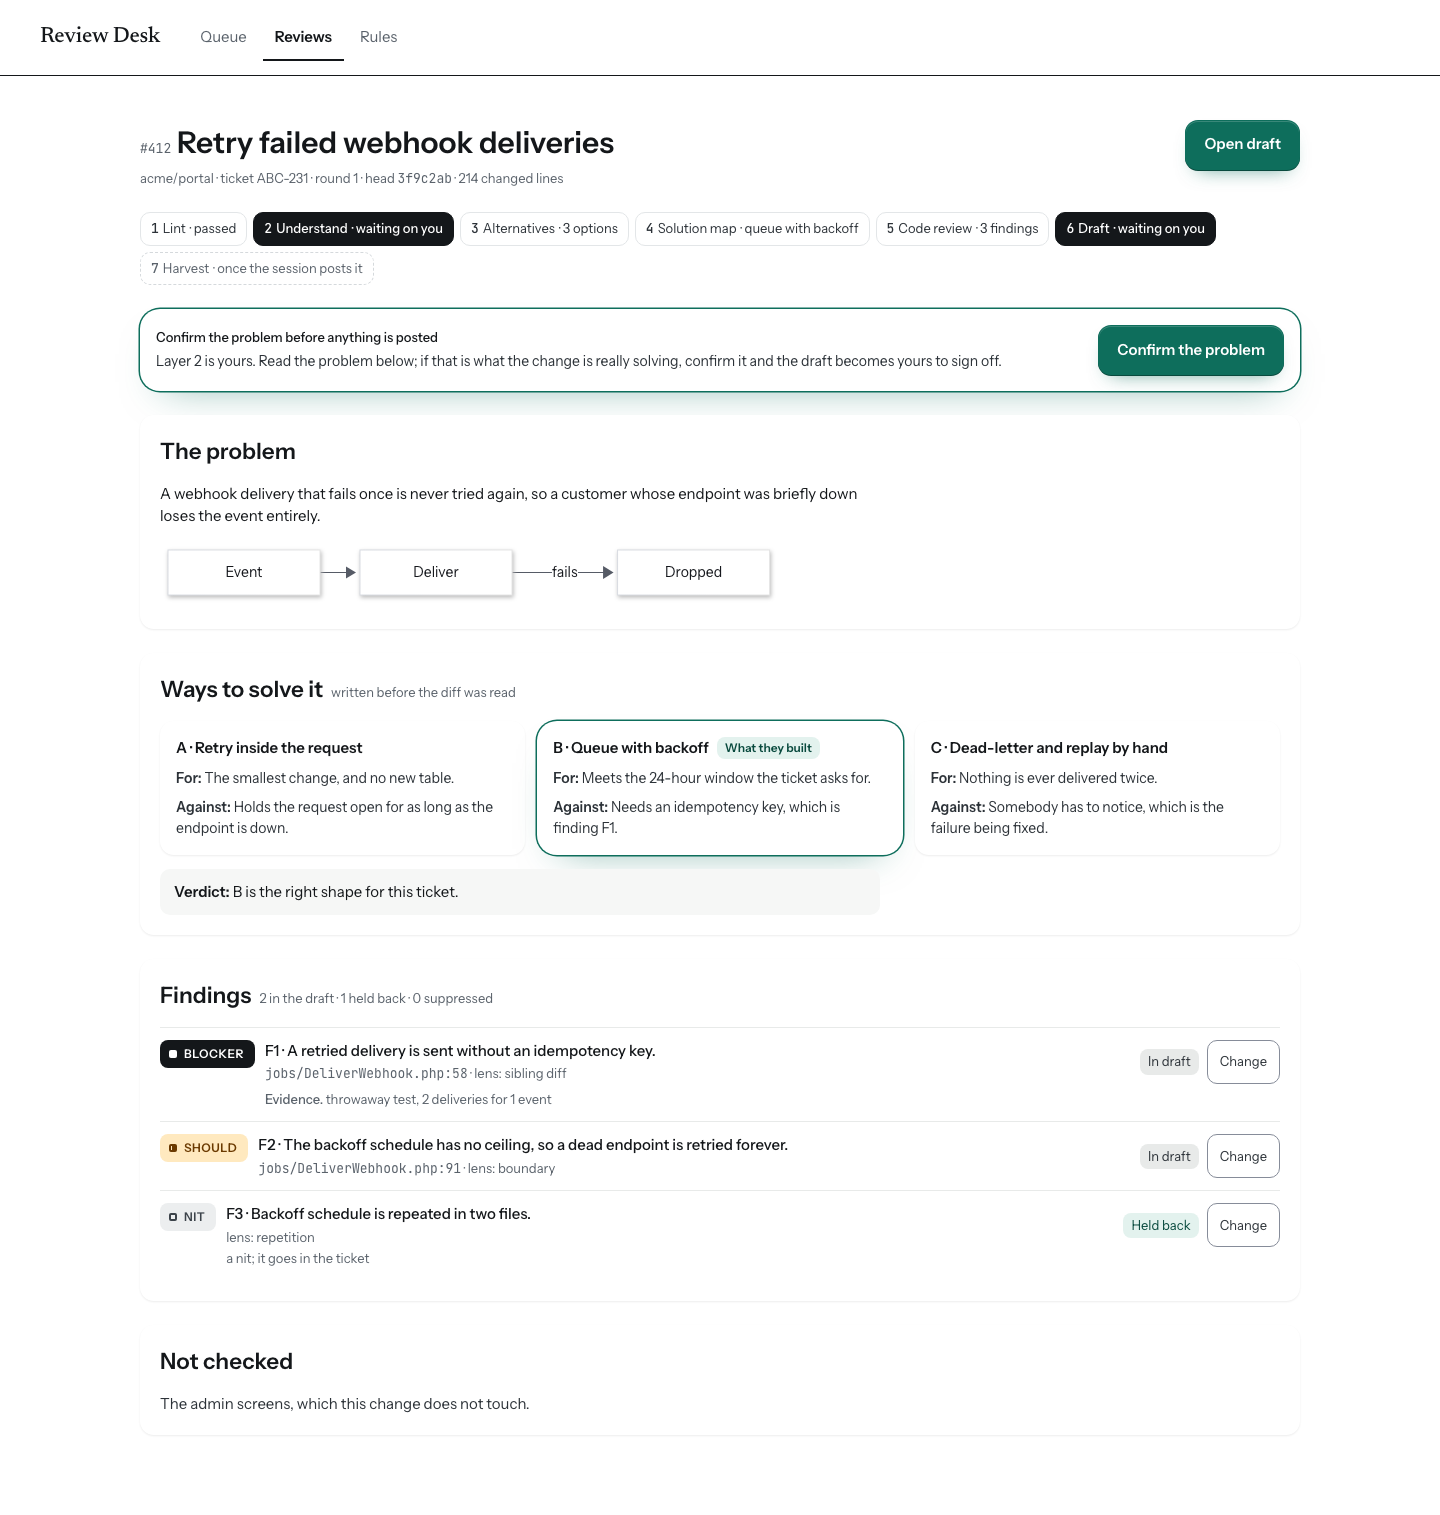
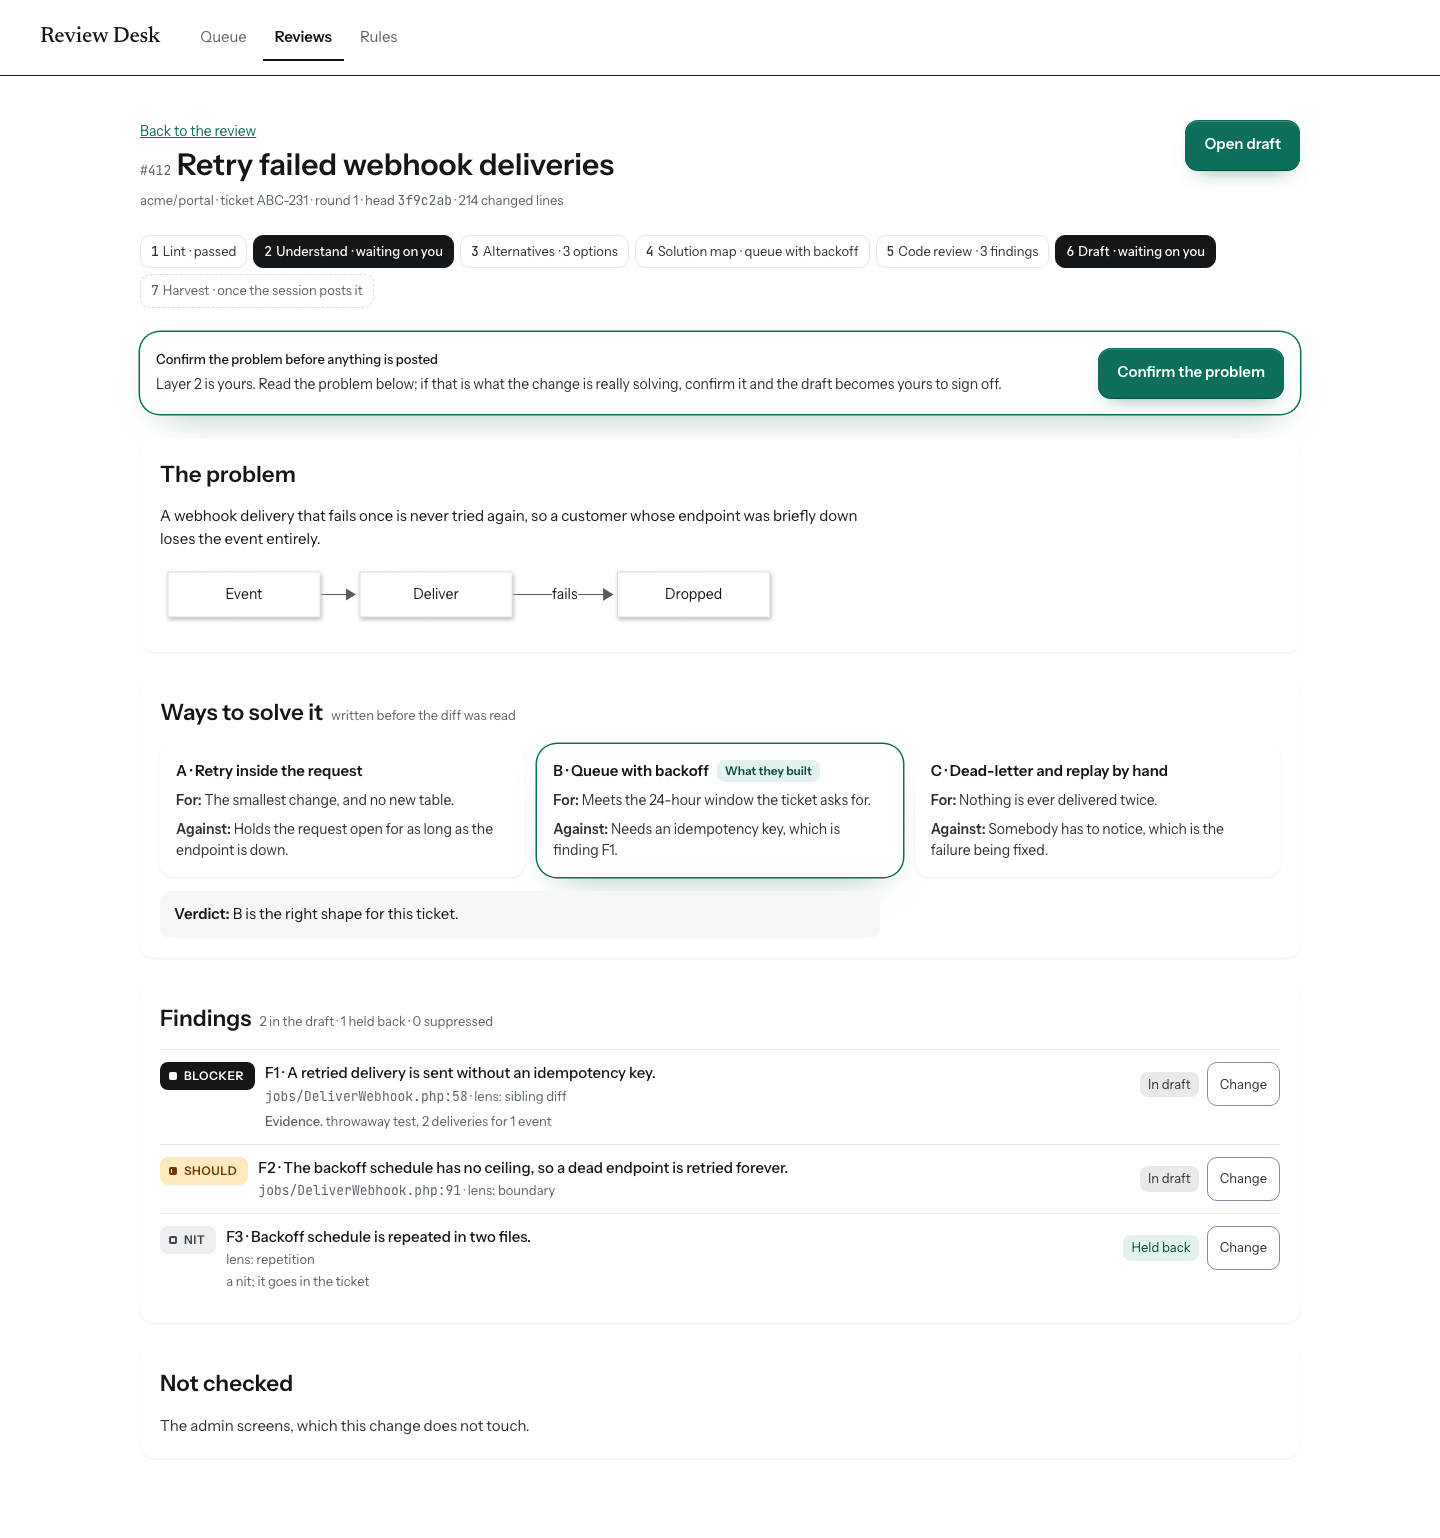
The queue opens the review, and the trail reaches the rest [DEV-885]
Patrick's instruction stands and the issue's criterion did not. "When we
click a review, we want to go to the review, not to the draft" — and in a
page-per-step review the review *starts* at Understand, because the order
is understand, alternatives, solution, then the code, then the draft. So
every row in the queue opens Understand, whatever is waiting behind it.

**The trail is what says which step is waiting**, and it is a better place
for that than the destination of a click: it says so about all seven steps
at once, where a destination can only say it about one. The previous commit
had the row carry that fact and the trail say it too, which is two answers
to one question.

**Which makes the trail load-bearing rather than decorative.** If every row
lands on Understand, the findings and the draft have to be reachable from
it or the queue leads somewhere you cannot leave. Step 5 now links to
`/reviews/{id}`, the one-page review, which is the only place findings are
drawn until DEV-878; step 6 links to the draft. Steps 1 and 7 stay labels,
because they have no page and a link to one that does not exist is worse.

**Neither of those two screens carries a trail, so each carries one link
back.** The draft screen has had `Back to the review` all along and only
where it points has moved — under the new model "the review" is Understand.
The one-page review gains the same control, worded and placed the same way.
Nothing else on either is touched; DEV-878 rebuilds them.
[…]

diff --git a/web/test/screens.nuxt.spec.ts b/web/test/screens.nuxt.spec.ts
@@ -322,47 +322,60 @@ describe('the queue', () => {
     expect(row.text()).toContain('Read and sign off')
     expect(page.findAll('.row').filter(one => one.text().includes('#412'))).toHaveLength(1)
     /*
-     * **And it goes to the step that is waiting**, which is now the draft.
-     *
-     * This assertion used to read `/reviews/17`, pinning "every row opens the review, not
-     * the draft" — Patrick on tc-portal #9584, against a queue where every row skipped
-     * straight to the draft screen. DEV-885 supersedes it rather than undoing it: a review
-     * is no longer one page, so "the review" has stopped naming a place. Before the brief
-     * is confirmed this row goes to Understand, which *is* the review; once it is
-     * confirmed the only step still waiting is the draft, and there is nothing left to
-     * read first.
+     * **And it still goes to the review, not to the draft.** Patrick, on tc-portal #9584:
+     * "when we click a review, we want to go to the review, not to the draft." In a
+     * page-per-step review the review starts at Understand, and the draft is one click
+     * along the trail — which is also the click that walks past the alternatives and the
+     * solution on the way.
      */
-    expect(row.attributes('href')).toBe('/reviews/17/draft')
+    expect(row.attributes('href')).toBe('/reviews/17/understand')
   })
 
-  it('opens the step that is waiting, and Understand when nothing is', async () => {
+  it('opens Understand, whatever the row is waiting for', async () => {
     const page = await shown(Inbox)
 
-    /* A brief waiting to be confirmed is step 2, and step 2 has a page. */
+    /*
+     * **Every row, whatever it is waiting for.** A brief to confirm, a draft to sign off
+     * and an author's reply are three different steps, and all three land on Understand:
+     * the trail is what says which step is waiting, and it says it about all seven at once
+     * where a destination could only say it about one.
+     */
     const brief = page.findAll('.row').find(one => one.text().includes('Problem brief ready'))!
     expect(brief.attributes('href')).toBe('/reviews/17/understand')
 
-    /*
-     * A review whose only waiting thing is an author's reply. That is step 7, which has no
-     * page until DEV-878 builds it, so the row lands on Understand — where a reader starts
-     * anyway.
-     *
-     * **Asserted on the row, not on a predicate over the list.** This was
-     * `every(href => !/^\/reviews\/\d+$/.test(href))`, which passes on an empty list and
-     * passes on a row pointing at `/reviews/17/draft` — so it could not fail for the reason
-     * its own title gives.
-     */
     const reply = page.findAll('.row').find(one => one.text().includes('The author replied'))
     expect(reply, 'the fixtures hold a review whose only waiting thing is a reply').toBeTruthy()
     expect(reply!.attributes('href')).toMatch(/^\/reviews\/\d+\/understand$/)
 
-    /* And no row anywhere still points at the review's old single page. */
+    /*
+     * And no row anywhere goes anywhere else. Asserted over every row rather than as a
+     * predicate that could pass on an empty list.
+     */
     const everywhere = page
       .findAll('.row')
       .map(one => one.attributes('href'))
       .filter((href): href is string => href != null)
-    expect(everywhere.length).toBeGreaterThan(0)
-    expect(everywhere.filter(href => /^\/reviews\/\d+$/.test(href))).toEqual([])
+      .filter(href => href.startsWith('/reviews/'))
+    expect(everywhere.length).toBeGreaterThan(2)
+    for (const href of everywhere) expect(href).toMatch(/^\/reviews\/\d+\/understand$/)
+  })
+
+  it('leaves a way back from the two screens the trail reaches', async () => {
+    /*
+     * Steps 5 and 6 of the trail land on the one-page review and the draft, and neither
+     * carries a trail of its own until DEV-878 rebuilds them. One link back each, so the
+     * queue — which lands every row on Understand — does not lead somewhere you cannot
+     * leave. The draft screen has carried one all along; only where it goes has moved.
+     */
+    for (const [component, route] of [
+      [OneReview, '/reviews/17'],
+      [DraftPreview, '/reviews/17/draft'],
+    ] as const) {
+      const screen = await shown(component, { route })
+      const back = screen.findAll('a').find(one => one.text() === 'Back to the review')
+      expect(back, `${route} has no way back`).toBeTruthy()
+      expect(back!.attributes('href')).toBe('/reviews/17/understand')
+    }
   })
 
   it('keeps the figures the boards do not draw, rather than dropping them', async () => {

diff --git a/web/e2e/review-desk.spec.ts b/web/e2e/review-desk.spec.ts
@@ -218,14 +218,26 @@ test.describe('the whole path, on a seeded database', () => {
     await expect(page.getByText('1 nit to a ticket')).toBeVisible()
 
     /*
-     * **A row goes to the step that is waiting**, which with the brief confirmed is the
-     * draft — DEV-885's criterion. This assertion used to be `/reviews/{id}`, pinning
-     * "a row goes to the review, and the draft is one click further on" against the
-     * version where every row skipped the reading. The reading now has pages of its own:
-     * before the brief was confirmed, two tests above, this same row went to Understand.
-     * With layer 2 settled there is nothing left to read before signing off.
+     * **A row goes to the review, and the draft is one click along the trail.**
+     *
+     * Patrick, on tc-portal #9584: "when we click a review, we want to go to the review,
+     * not to the draft." In a page-per-step review the review starts at Understand, so
+     * that is where every row lands however much is waiting behind it — and the trail,
+     * which says which step is waiting, is what carries you on.
+     *
+     * This is the path that proves the queue does not dead-end: queue, Understand, trail,
+     * draft. Linking step 6 is what makes it exist.
      */
     await page.getByRole('link', { name: 'Read and sign off' }).first().click()
+    await expect(page).toHaveURL(`${seeded}reviews/${reviewId}/understand`)
+
+    await page.locator('.trail').getByRole('link', { name: /6 Draft/ }).click()
+    await expect(page).toHaveURL(`${seeded}reviews/${reviewId}/draft`)
+
+    /* And back again, because that screen carries no trail of its own. */
+    await page.getByRole('link', { name: 'Back to the review' }).click()
+    await expect(page).toHaveURL(`${seeded}reviews/${reviewId}/understand`)
+    await page.locator('.trail').getByRole('link', { name: /6 Draft/ }).click()
     await expect(page).toHaveURL(`${seeded}reviews/${reviewId}/draft`)
     await expect(
       page.getByText('Nothing has been posted. This is what GitHub will show.'),
@@ -713,10 +725,27 @@ test.describe('the three step pages of one review', () => {
       page.getByRole('heading', { name: 'Where the description and the code disagree' }),
     ).toBeVisible()
 
+    /* ---- 5 and 6, the two screens this slice does not rebuild ---- */
+
+    /*
+     * The trail is the only way to either, now that every queue row opens Understand — so
+     * these two links are what stop the queue leading somewhere a reader cannot leave.
+     * Each screen carries one link back, and that is all DEV-885 changes about them.
+     */
+    await page.locator('.trail').getByRole('link', { name: /5 Code review/ }).click()
+    await expect(page).toHaveURL(`${seeded}reviews/${structuredReviewId}`)
+    await page.getByRole('link', { name: 'Back to the review' }).click()
+    await expect(page).toHaveURL(`${seeded}reviews/${structuredReviewId}/understand`)
+
     /* ---- and back to 2 · Understand, which is what "move back freely" means ---- */
 
+    await page.locator('.trail').getByRole('link', { name: /3 Alternatives/ }).click()
     await page.locator('.trail').getByRole('link', { name: /2 Understand/ }).click()
     await expect(page).toHaveURL(`${seeded}reviews/${structuredReviewId}/understand`)
+
+    /* Lint and Harvest are labels, not links: neither has a page until DEV-878. */
+    await expect(page.locator('.trail').getByRole('link', { name: /1 Lint/ })).toHaveCount(0)
+    await expect(page.locator('.trail').getByRole('link', { name: /7 Harvest/ })).toHaveCount(0)
   })
 
   /**

diff --git a/web/app/components/StepTrail.vue b/web/app/components/StepTrail.vue
@@ -21,13 +21,23 @@ import type { ReviewLayer, ReviewLayerName } from '~/types/desk'
  *
  * ## Which steps are links
  *
- * Understand, Alternatives and Solution, which are the three pages DEV-885 builds. The
- * board makes exactly these three links and leaves the other four as labels, and that is
- * the right behaviour rather than a limitation of the mockup: steps 1, 5 and 7 have no page
- * until DEV-878 builds them, and a link to a page that does not exist is worse than a
- * label. **Step 6 is deliberately not a link either**, even though `/reviews/{id}/draft`
- * exists: that screen carries no trail, so following the link would be a one-way trip out
- * of a navigation whose whole purpose is moving between steps freely.
+ * **Five of the seven, and the trail is the only way to four of them.**
+ *
+ * Every row in the queue opens Understand — "when we click a review, we want to go to the
+ * review, not to the draft", and in a page-per-step review the review starts at
+ * Understand. That makes the trail load-bearing rather than decorative: if it did not
+ * reach the draft and the findings, the queue would lead somewhere you could not leave.
+ *
+ * | Step | Goes to |
+ * |---|---|
+ * | 2, 3, 4 | the pages DEV-885 builds |
+ * | 5 Code review | `/reviews/{id}`, the one-page review, which is where the findings are |
+ * | 6 Draft | `/reviews/{id}/draft` |
+ * | 1 Lint, 7 Harvest | nowhere — no page until DEV-878, and a link to a page that does not exist is worse than a label |
+ *
+ * The board draws only three links, and drew them against a queue that landed elsewhere.
+ * Steps 5 and 6 go to the two screens this slice does not rebuild; **each of those carries
+ * one link back to Understand**, so neither is a one-way trip out of the trail.
  */
 /*
  * **Resolved to the component, not named as a string.** `QueueRow` carries the measurement:
@@ -46,11 +56,20 @@ const props = defineProps<{
   round: number
 }>()
 
-/** The three steps with a page, and where each one is. */
-const PAGES: Partial<Record<ReviewLayerName, string>> = {
-  understand: 'understand',
-  alternatives: 'alternatives',
-  solution_map: 'solution',
+/**
+ * The five steps that have somewhere to go, as whole paths.
+ *
+ * Whole paths rather than suffixes, because step 5's page **is** the base route: the
+ * one-page review is where the findings are drawn until DEV-878 replaces it, and a suffix
+ * map would have had to express that as an empty string and build `/reviews/1/`.
+ */
+const PAGES: Partial<Record<ReviewLayerName, (id: number) => string>> = {
+  understand: id => `/reviews/${id}/understand`,
+  alternatives: id => `/reviews/${id}/alternatives`,
+  solution_map: id => `/reviews/${id}/solution`,
+  /* The one-page review, which is the only place the findings are shown. */
+  code_review: id => `/reviews/${id}`,
+  draft: id => `/reviews/${id}/draft`,
 }
 
 interface Step {
@@ -78,9 +97,7 @@ const steps = computed<Step[]>(() =>
       name: layer.name,
       label: layerLabel(layer.name),
       outcome: layerOutcome(layer),
-      to: PAGES[layer.name] == null
-        ? null
-        : `/reviews/${props.reviewId}/${PAGES[layer.name]}`,
+      to: PAGES[layer.name]?.(props.reviewId) ?? null,
       current: layer.name === props.active,
       tone: layerTone(layer.state),
     })),

diff --git a/web/app/pages/index.vue b/web/app/pages/index.vue
@@ -130,28 +130,20 @@ function needingYou(data: Inbox): Waiting[] {
 }
 
 /**
- * Where a row goes: **the step that is waiting on the developer**, or Understand.
+ * Where a row goes: **Understand, whatever the row is waiting for.**
  *
- * DEV-885 asks for exactly that, and it is a change of destination rather than of
- * behaviour. A review is no longer one page, so "go to the review" has stopped naming a
- * place: it is seven steps, and the one worth landing on is the one that is waiting.
+ * Patrick, on tc-portal #9584: "when we click a review, we want to go to the review, not to
+ * the draft." In a page-per-step review the review *starts* at Understand — his order is
+ * understand, alternatives, solution, then the code, then the draft — so every row lands
+ * there and the reading happens in the order it was designed to happen in.
  *
- * | What is waiting | Step | Where |
- * |---|---|---|
- * | a brief to confirm | 2 · Understand | `/reviews/{id}/understand` |
- * | a draft to sign off | 6 · Draft | `/reviews/{id}/draft` |
- * | an author's reply | 7 · Harvest, which has no page yet | `/reviews/{id}/understand` |
- *
- * **This supersedes a narrower instruction, and the reason it does is worth recording.**
- * On tc-portal #9584 Patrick said "when we click a review, we want to go to the review, not
- * to the draft" — against a queue where every row went to the draft screen, skipping the
- * reading that precedes a sign-off. The reading now has a page of its own: a row with a
- * brief waiting lands on Understand, which *is* the review. A row whose only waiting step
- * is the draft lands on the draft, because there is nothing else to read first.
+ * **The trail is what says which step is waiting**, and it is a better place for that than
+ * the destination of a click: it says so about all seven steps at once, where a
+ * destination can only say it about one. From Understand the draft is one click along the
+ * trail, which is also the click that walks you past the alternatives and the solution on
+ * the way — the reading that precedes a sign-off.
  */
 function stepFor(row: Waiting): string {
-  if (row.brief) return `/reviews/${row.review_id}/understand`
-  if (row.draft) return `/reviews/${row.review_id}/draft`
   return `/reviews/${row.review_id}/understand`
 }
 

diff --git a/web/test/step-pages.nuxt.spec.ts b/web/test/step-pages.nuxt.spec.ts
@@ -141,14 +141,40 @@ describe('the shell every step page sits in', () => {
     expect(page.find('.trail').text()).toContain('not yet')
   })
 
-  it('links the three steps that have a page, and no others', async () => {
+  it('links the five steps that have somewhere to go, and no others', async () => {
     const page = await understand(STRUCTURED)
     const links = page.findAll('.trail a').map(one => one.attributes('href'))
+    /*
+     * **The trail is the only way to four of these.** Every row in the queue opens
+     * Understand, so if the trail did not reach the findings and the draft the queue would
+     * lead somewhere a reader could not leave. Steps 1 and 7 have no page until DEV-878,
+     * and a link to a page that does not exist is worse than a label.
+     */
     expect(links).toEqual([
       `/reviews/${STRUCTURED}/understand`,
       `/reviews/${STRUCTURED}/alternatives`,
       `/reviews/${STRUCTURED}/solution`,
+      `/reviews/${STRUCTURED}`,
+      `/reviews/${STRUCTURED}/draft`,
     ])
+    /* Lint and Harvest are labels. */
+    const labels = page.findAll('.trail .face:not(a)').map(one => one.text())
+    expect(labels.some(one => one.includes('1 Lint'))).toBe(true)
+    expect(labels.some(one => one.includes('7 Harvest'))).toBe(true)
+  })
+
+  it('still says which step is waiting, whichever page you are on', async () => {
+    const page = await understand(STRUCTURED)
+    /*
+     * Step 6 is a link now, and it is also the step waiting on the developer. The two
+     * facts are drawn by different things — `face--current` is the review's state,
+     * `face--here` is the browser's — and linking it changed neither.
+     */
+    const waiting = page.findAll('.trail .face--current')
+    expect(waiting).toHaveLength(1)
+    expect(waiting[0]!.text()).toContain('6 Draft')
+    expect(waiting[0]!.text()).toContain('waiting on you')
+    expect(page.find('.trail .face--here').text()).toContain('2 Understand')
   })
 
   it('marks the step you are on, on each of the three pages', async () => {

diff --git a/web/app/pages/reviews/[id]/index.vue b/web/app/pages/reviews/[id]/index.vue
@@ -68,6 +68,21 @@ async function changeDisposition(payload: {
       <div class="review">
         <div class="head">
           <div class="heading">
+            <!--
+              **One link back, and the only thing DEV-885 changes on this screen.**
+
+              Step 5 of the trail links here, because this is the only place the findings
+              are drawn until DEV-878 rebuilds it, and this screen carries no trail of its
+              own. Every row in the queue now lands on Understand, so without a way back
+              the trail would send a reader somewhere they could not leave. Worded and
+              placed exactly as the draft screen's, which has carried one all along.
+            -->
+            <NuxtLink
+              :to="`/reviews/${data.review.id}/understand`"
+              class="back"
+            >
+              Back to the review
+            </NuxtLink>
             <h1>
               <PrRef :pr="data.review.pr" />
               {{ data.review.title ?? 'no title recorded' }}
@@ -340,6 +355,11 @@ async function changeDisposition(payload: {
 .heading {
   flex: 1 1 420px;
   min-width: 0;
+}
+
+/* The draft screen's own `.back`, so the two read the same. */
+.back {
+  font-size: 14px;
 }
 
 .meta {

diff --git a/web/app/pages/reviews/[id]/draft.vue b/web/app/pages/reviews/[id]/draft.vue
@@ -161,8 +161,15 @@ function ofFigure(value: number | null | undefined, of: number | null | undefine
     <template #default="{ data }">
       <div class="draft">
         <div>
+          <!--
+            **"The review" is Understand now**, which is the only thing about this screen
+            DEV-885 changes. Step 6 of the trail links here, and this screen carries no
+            trail of its own until DEV-878 rebuilds it — so without a way back the queue,
+            which lands every row on Understand, would lead somewhere you could not leave.
+            The control and its wording were already here; only where it goes has moved.
+          -->
           <NuxtLink
-            :to="`/reviews/${data.draft.review_id}`"
+            :to="`/reviews/${data.draft.review_id}/understand`"
             class="back"
           >
             Back to the review
